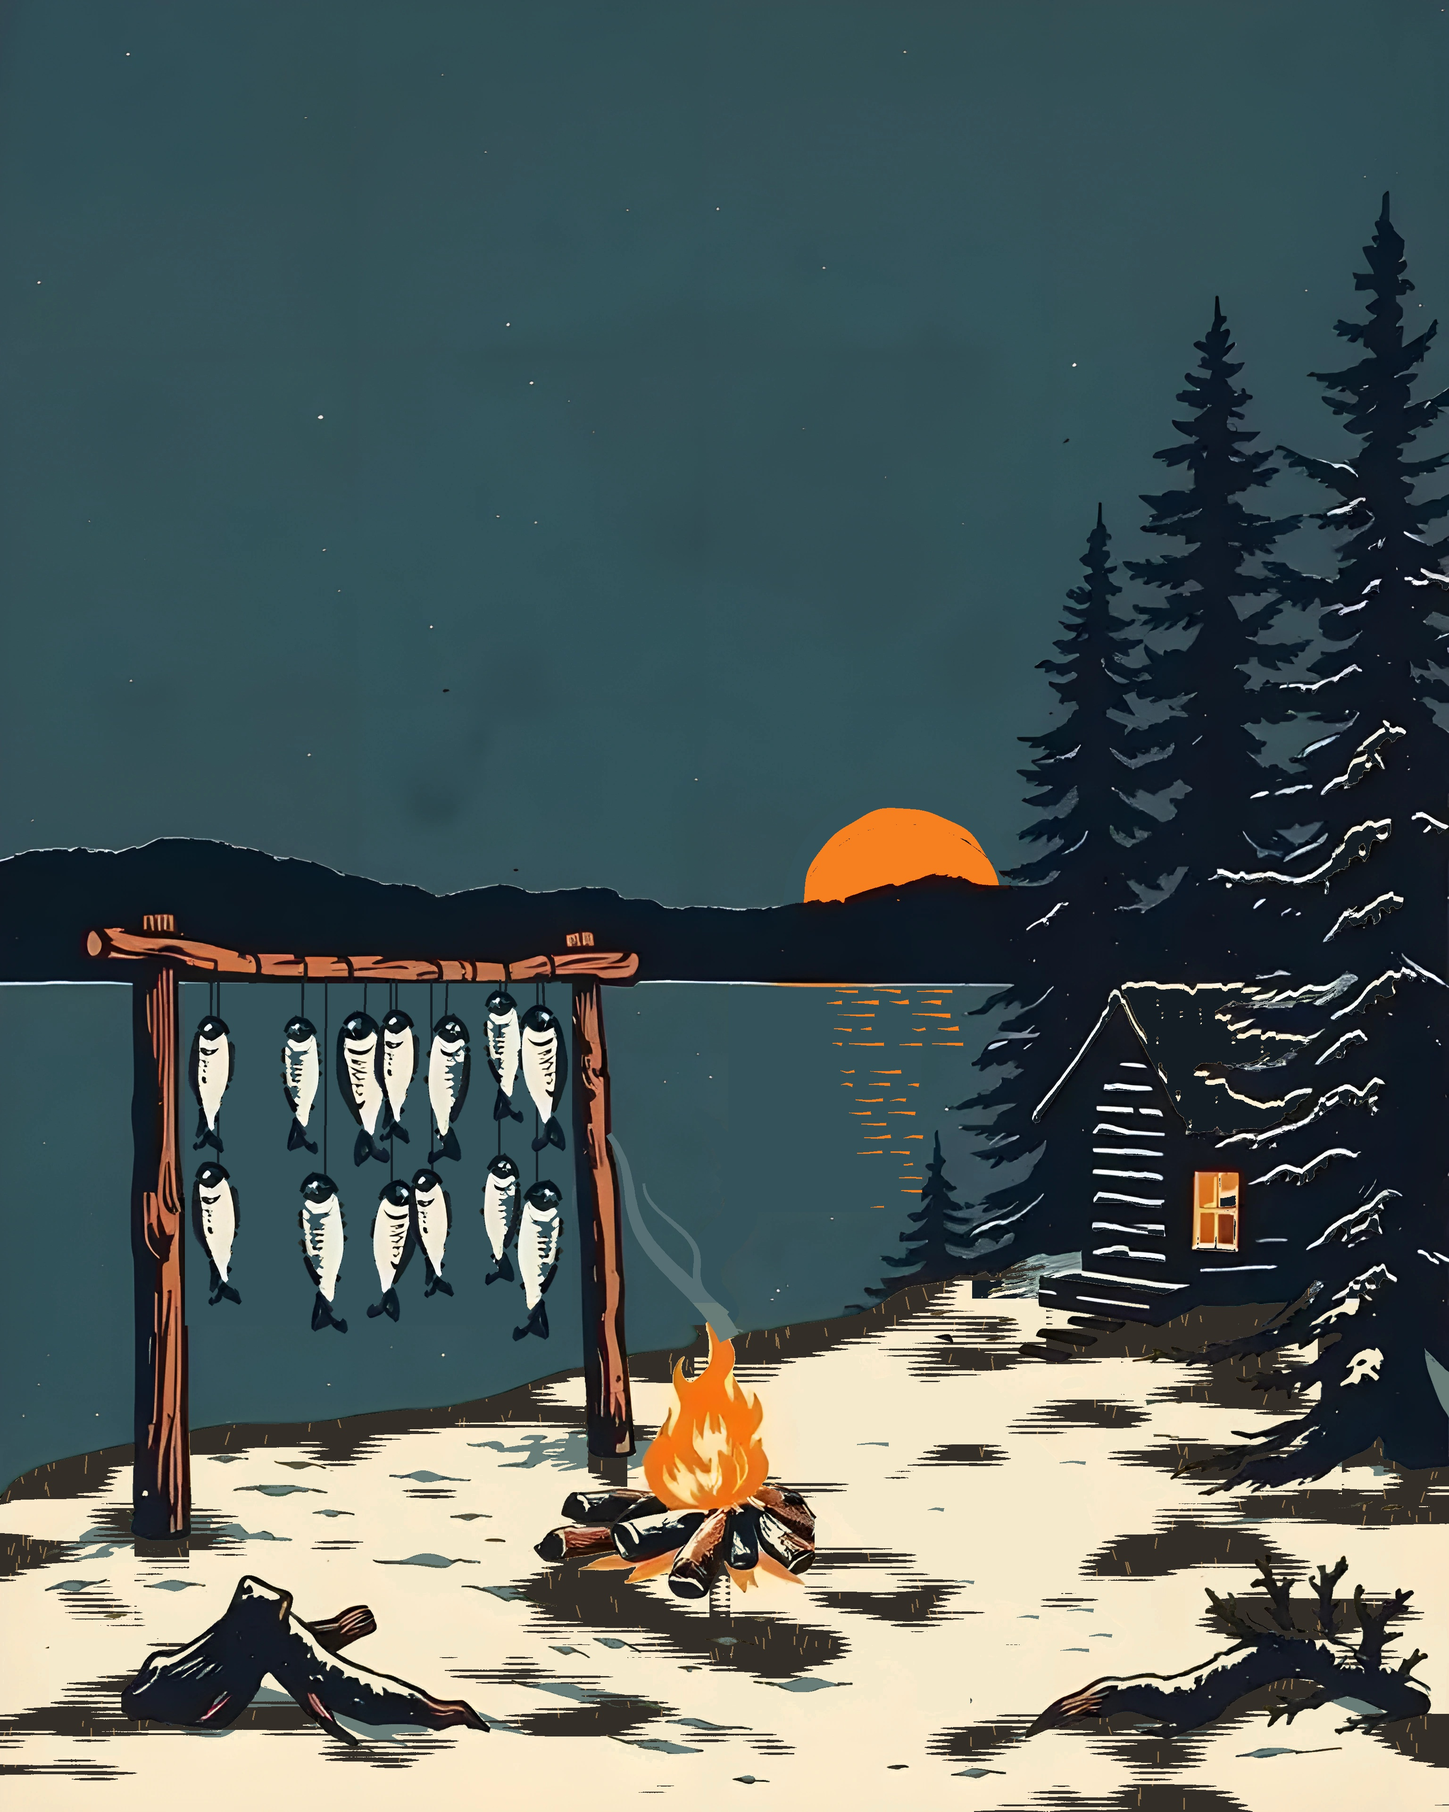
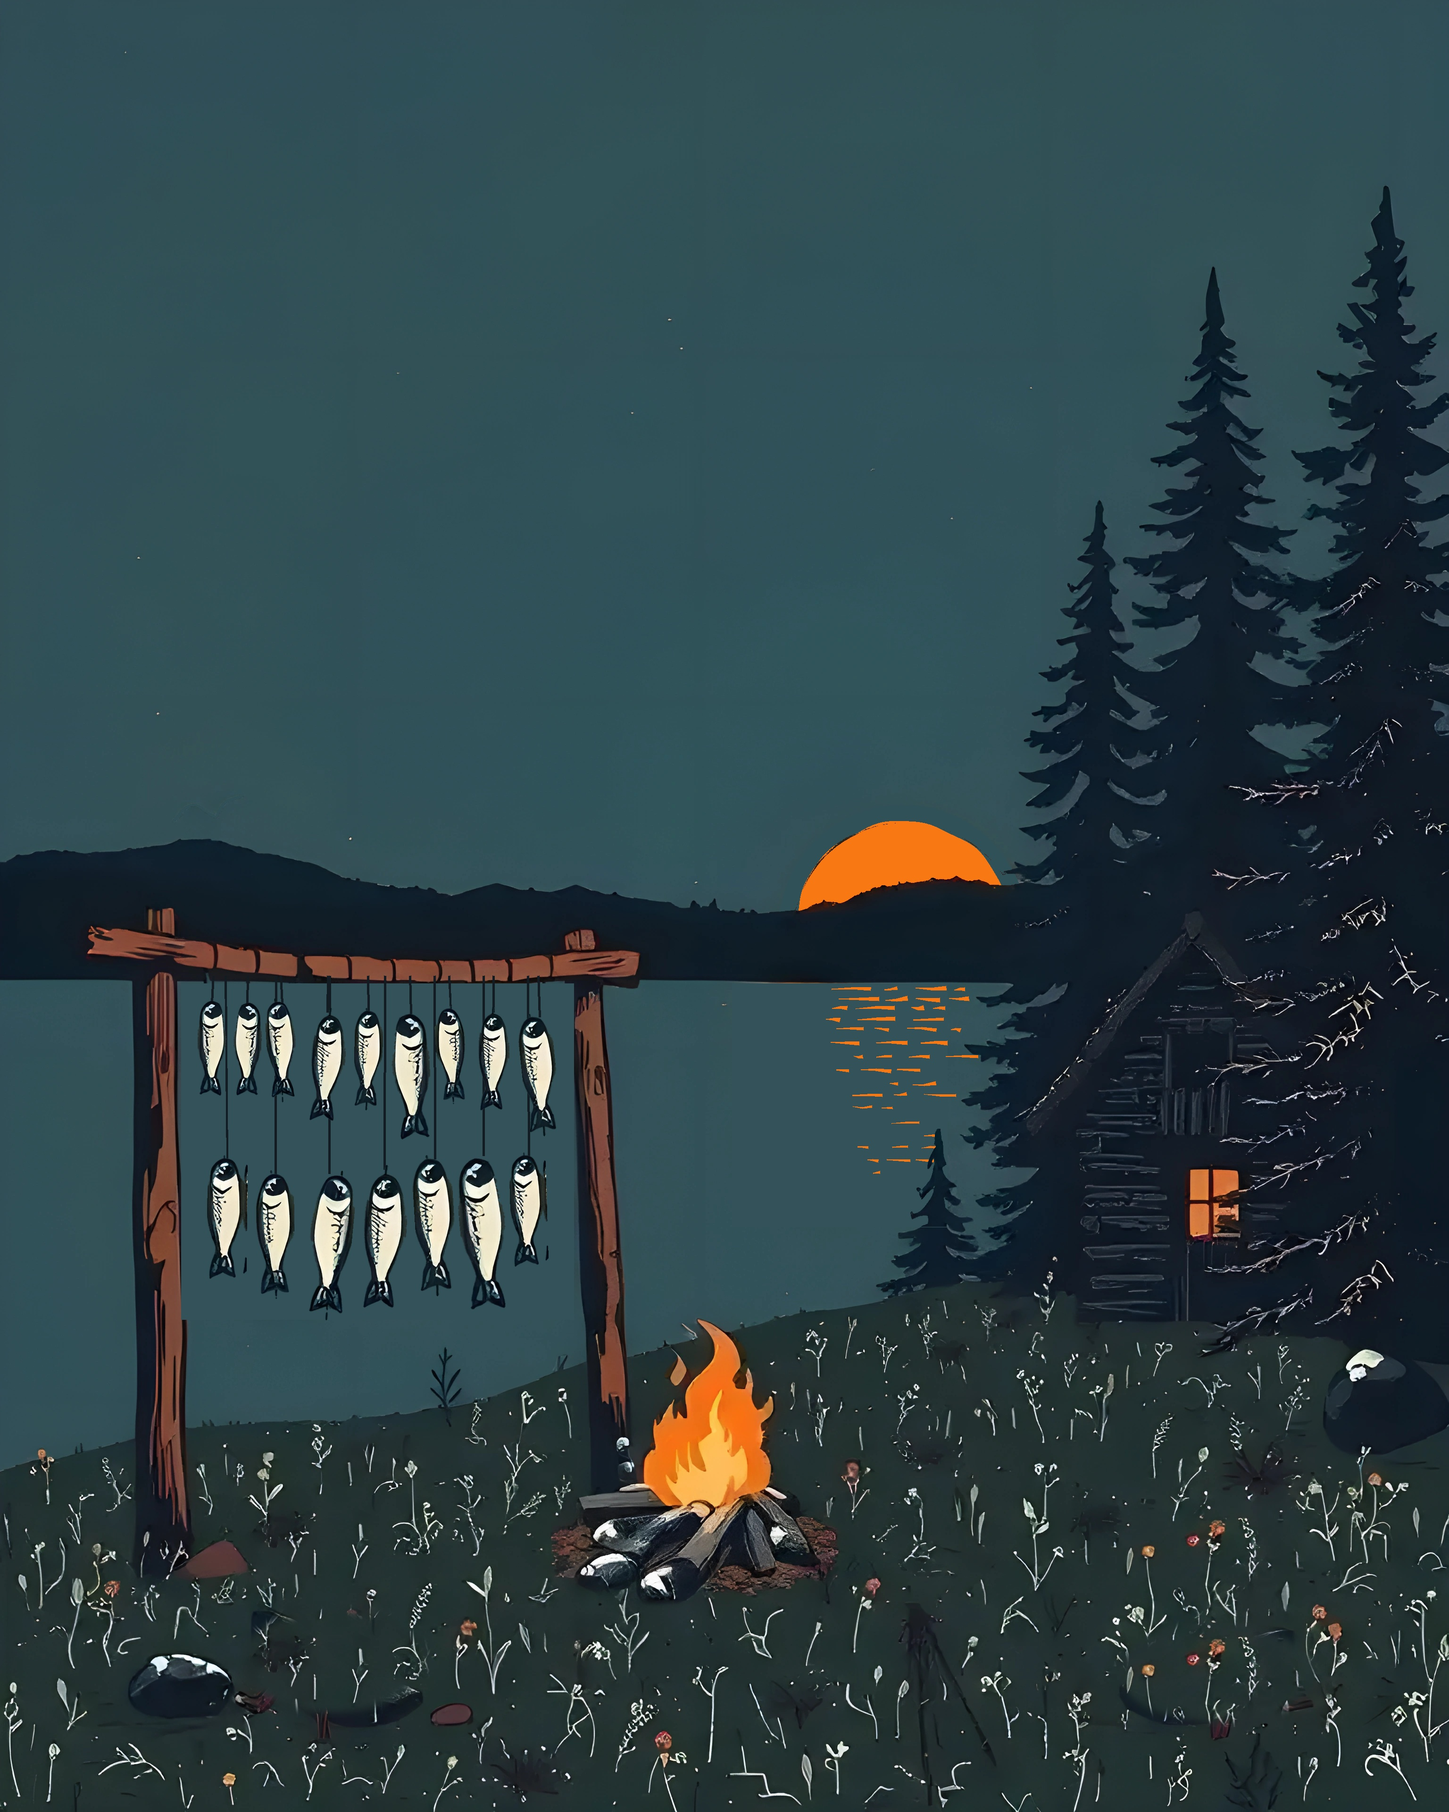
Tomes 4 et 5 en été : la 6 et la 2 choisies par JP, agrandies et retouchées, posées sur les pages de titre
Tome 4 : soleil en aplat, reflet regravé, bêtes couchées et oiseau retirés, poissons de tailles variées.
Tome 5 : la rangée de fausse écriture devient une rangée de pierres.

Claude-Session: https://claude.ai/code/session_014xDY5FLxFXDJt3nYAYznSZ

Changed region(s): [[0.0, 0.125, 1.0, 1.0], [0.5312, 0.4375, 0.6875, 0.5], [0.6875, 0.4688, 0.7188, 0.5]]

diff --git a/images/tomes/essais-ia/tome-4/ete/retouche_ete.py b/images/tomes/essais-ia/tome-4/ete/retouche_ete.py
@@ -1,0 +1,113 @@
+"""Tome 4, version d'été : la n° 6 retouchée (JP, 18 octobre 2026 : « tome 4, la 6, mais règle ombre, soleil, et varie
+grosseur de poisson »). Le soleil devient un aplat orange au bord coupé à la main, sans le liseré sombre ni le dégradé
+du bord ; son reflet, une échelle de barres floues, devient des morceaux de traits effilés, de plus en plus rares en
+descendant ; les seize poissons pareils deviennent une quinzaine de tailles différentes (de 0,7 à 1,3 fois), penchés
+et espacés à la main. Les deux bêtes couchées dans l'herbe, en bas, et l'oiseau du ciel partent.
+    python3 retouche_ete.py SOURCE SORTIE
+Les coordonnées sont celles de l'image 768 × 960 ; elles se multiplient par K (4 sur l'image agrandie)."""
+import sys, random, math
+import numpy as np
+from PIL import Image, ImageDraw
+from scipy import ndimage
+
+src, dst = sys.argv[1], sys.argv[2]
+im = Image.open(src).convert('RGB')
+K = im.width / 768
+R = random.Random(11)
+ORIG = np.asarray(im).astype(int)
+H, W = ORIG.shape[:2]
+yy, xx = np.mgrid[0:H, 0:W] / K
+med = lambda x0, y0, x1, y1: tuple(int(v) for v in np.median(ORIG[int(y0 * K):int(y1 * K), int(x0 * K):int(x1 * K)].reshape(-1, 3), 0))
+CIEL = med(100, 200, 300, 350); LAC = med(330, 560, 380, 640); ORANGE = (248, 120, 20); ENCRE = (18, 28, 34)
+k = lambda v: v * K
+P = lambda pts: [(k(x), k(y)) for x, y in pts]
+
+def trait(d, pts, w0, w1, fill):
+    """Une entaille effilée : largeur w0 au départ, w1 au bout (en px de l'image 768)."""
+    gauche, droite = [], []
+    for i, (x, y) in enumerate(pts):
+        a = pts[min(i + 1, len(pts) - 1)]; b = pts[max(i - 1, 0)]
+        dx, dy = a[0] - b[0], a[1] - b[1]; n = math.hypot(dx, dy) or 1
+        w = (w0 + (w1 - w0) * i / (len(pts) - 1)) / 2
+        gauche.append((x - dy / n * w, y + dx / n * w)); droite.append((x + dy / n * w, y - dx / n * w))
+    d.polygon(P(gauche + droite[::-1]), fill=fill)
+
+arr = ORIG.copy()
+# 1. le soleil : aplat net ; la colline et le rivage passent devant
+cx, cy, r = 478.5, 492, 57
+dist = np.hypot(xx - cx, yy - cy)
+colline = (ORIG.mean(2) < 45) | (yy > 519)
+ang = np.arctan2(yy - cy, xx - cx)
+bord = r + 0.5 * np.sin(ang * 7 + 0.4) + 0.35 * np.sin(ang * 13)
+arr[(dist < r + 9) & ~colline] = CIEL
+arr[(dist <= bord) & ~colline] = ORANGE
+# 2. l'oiseau du ciel part
+arr[(xx > 88) & (xx < 132) & (yy > 412) & (yy < 440) & (np.abs(ORIG - np.array(CIEL)).sum(2) > 30)] = CIEL
+im = Image.fromarray(arr.astype(np.uint8)); d = ImageDraw.Draw(im)
+
+# 3. le reflet : le lac remis à plat sous le soleil, puis des morceaux de traits effilés
+d.rectangle(P([(388, 521), (502, 650)]), fill=LAC)
+y = 524.0
+while y < 648:
+    t = (y - 524) / 124; demi = 40 * (1 - t * 0.7); x = 476 - demi * R.uniform(0.7, 1.1)
+    while x < 476 + demi * R.uniform(0.7, 1.1):
+        L = R.uniform(5, 22) * (1 - t * 0.5); e = R.uniform(1.4, 2.6) * (1 - t * 0.45)
+        if R.random() > t * 0.55:
+            trait(d, [(x, y + R.uniform(-0.6, 0.6)), (x + L / 2, y + R.uniform(-0.5, 0.5)), (x + L, y + R.uniform(-0.6, 0.6))], 0.3, e, ORANGE)
+        x += L + R.uniform(3, 10)
+    y += R.uniform(3.8, 7.5) + t * 3
+# les épinettes et le chalet de droite repassent devant le reflet
+devant = (xx > 470) & (xx < 510) & (yy > 521) & (yy < 650) & (ORIG.mean(2) < 45)
+arr = np.asarray(im).copy(); arr[devant] = ORIG[devant]
+im = Image.fromarray(arr.astype(np.uint8)); d = ImageDraw.Draw(im)
+
+# 4. les deux bêtes couchées dans l'herbe : on recouvre de l'herbe voisine, prise juste au-dessus
+for x0, y0, x1, y1 in ((125, 850, 228, 910), (590, 858, 700, 915)):
+    h = y1 - y0
+    pris = Image.fromarray(ORIG.astype(np.uint8)).crop((int(k(x0)), int(k(y0 - h - 6)), int(k(x1)), int(k(y0 - 6))))
+    masque = Image.new('L', pris.size, 0)
+    ImageDraw.Draw(masque).ellipse([int(k(3)), int(k(3)), pris.width - int(k(3)), pris.height - int(k(3))], fill=255)
+    masque = Image.fromarray(ndimage.gaussian_filter(np.asarray(masque).astype(float), 2 * K).astype(np.uint8))
+    im.paste(pris, (int(k(x0)), int(k(y0))), masque)
+d = ImageDraw.Draw(im)
+
+# 5. les poissons : on relève les gabarits, on vide le séchoir, on les raccroche de tailles différentes
+X0, Y0, X1, Y1 = 96, 521, 304, 699
+# les poissons se touchent : chaque gabarit est découpé dans une colonne, avec sa queue ; le masque garde ce qui n'est
+# pas du lac
+gabarits = []
+for x0, y0, x1, y1 in ((147, 532, 170, 614), (171, 532, 195, 614), (195, 532, 219, 614),
+                       (146, 614, 171, 696), (171, 616, 194, 696), (197, 616, 222, 696)):
+    z = ORIG[int(k(y0)):int(k(y1)), int(k(x0)):int(k(x1))]
+    m = ndimage.binary_opening(np.abs(z - np.array(LAC)).sum(2) > 60, iterations=max(1, int(K / 2)))
+    gabarits.append(Image.fromarray(np.dstack([z, m * 255]).astype(np.uint8), 'RGBA'))
+d.rectangle(P([(X0, Y0), (X1, Y1)]), fill=LAC)
+R.shuffle(gabarits)
+a_poser, gi = [], 0
+for haut, xa, xb, f0, f1, fond_max in ((531, 104, 296, 0.62, 1.35, 614), (612, 106, 294, 0.68, 1.08, 703)):
+    rang, x, essais = [], xa, 0
+    while essais < 40:
+        essais += 1
+        f = R.uniform(f0, f1)
+        p = gabarits[gi % len(gabarits)]; gi += 1
+        w_ = p.width * f / K
+        if x + w_ > xb: break
+        p = p.resize((int(p.width * f), int(p.height * f)), Image.LANCZOS)
+        if R.random() < 0.3: p = p.transpose(Image.FLIP_LEFT_RIGHT)
+        p = p.rotate(R.uniform(-7, 7), resample=Image.BICUBIC, expand=True)
+        yp = haut + R.uniform(-3, 8)
+        if yp + p.height / K > fond_max:
+            continue
+        rang.append([p, x + w_ / 2, yp, w_])
+        x += w_ + R.uniform(1.5, 7)
+    if rang:                                                  # le rang se centre entre les deux poteaux
+        dx = (xa + xb) / 2 - (rang[0][1] - rang[0][3] / 2 + rang[-1][1] + rang[-1][3] / 2) / 2
+        for q in rang:
+            q[1] += dx
+            trait(d, [(q[1] + R.uniform(-1, 1), 517), (q[1], q[2] + 3)], 1.0, 0.9, ENCRE)      # la ficelle
+            a_poser.append((q[0], q[1], q[2]))
+for p, x, y in a_poser:
+    im.paste(p, (int(k(x) - p.width / 2), int(k(y))), p)
+
+im.save(dst, quality=95)
+print('ok', dst, len(a_poser), 'poissons', len(gabarits), 'gabarits')

diff --git a/images/tomes/essais-ia/tome-5/ete/retouche_ete.py b/images/tomes/essais-ia/tome-5/ete/retouche_ete.py
@@ -1,0 +1,51 @@
+"""Tome 5, version d'été : la n° 2 retouchée (JP, 18 octobre 2026 : « la 2, tome 5 »). Une seule chose y faisait IA :
+au pied du bâtiment de gauche, la rangée de pierres était devenue une ligne de fausse écriture. On la remplace par une
+rangée de pierres taillées à la main, de tailles et de formes différentes, sur la terre.
+    python3 retouche_ete.py SOURCE SORTIE
+Les coordonnées sont celles de l'image 768 × 960 ; elles se multiplient par K (4 sur l'image agrandie)."""
+import sys, random, math
+import numpy as np
+from PIL import Image, ImageDraw
+
+src, dst = sys.argv[1], sys.argv[2]
+im = Image.open(src).convert('RGB')
+K = im.width / 768
+R = random.Random(8)
+O = np.asarray(im).astype(int)
+med = lambda x0, y0, x1, y1: tuple(int(v) for v in np.median(O[int(y0 * K):int(y1 * K), int(x0 * K):int(x1 * K)].reshape(-1, 3), 0))
+TERRE = med(60, 742, 120, 750); PIERRE = med(250, 655, 300, 660); OMBRE = (44, 28, 18)
+k = lambda v: v * K
+d = ImageDraw.Draw(im)
+
+# la bande de fausse écriture, du coin du bâtiment jusqu'à la clôture : ses traits clairs prennent la couleur de la terre
+# autour (moyenne locale des pixels sombres), puis les pierres se posent par-dessus, serrées comme un solage
+from scipy import ndimage
+yy, xx = np.mgrid[0:O.shape[0], 0:O.shape[1]] / K
+bande = (xx > 44) & (xx < 374) & (yy > 709) & (yy < 741)
+clair = bande & (O.mean(2) > 85)
+clair = ndimage.binary_dilation(clair, iterations=max(1, int(1.5 * K)))
+fonce = ~clair & (O.mean(2) <= 85)
+arr = O.copy()
+for c in range(3):
+    num = ndimage.gaussian_filter(O[:, :, c] * fonce, 4 * K); den = ndimage.gaussian_filter(fonce.astype(float), 4 * K)
+    arr[:, :, c] = np.where(clair, num / np.maximum(den, 1e-3), O[:, :, c])
+im = Image.fromarray(arr.astype(np.uint8)); d = ImageDraw.Draw(im)
+x = 46.0
+while x < 366:
+    w = R.uniform(12, 22); h = R.uniform(9, 14); cy = 726 + R.uniform(-2, 2)
+    pts = []
+    for t in np.linspace(0, 2 * math.pi, 12)[:-1]:            # une pierre : un ovale aux bords cassés
+        rr = 1 + R.uniform(-0.14, 0.1)
+        pts.append((x + w / 2 + math.cos(t) * w / 2 * rr, cy + math.sin(t) * h / 2 * rr))
+    d.polygon([(k(px) + k(1.2), k(py) + k(1.5)) for px, py in pts], fill=OMBRE)          # le joint sombre dessous
+    v = R.uniform(0.82, 1.04)                                  # chaque pierre a sa teinte
+    d.polygon([(k(px), k(py)) for px, py in pts], fill=tuple(int(c * v) for c in PIERRE))
+    if R.random() < 0.7:                                       # une ou deux entailles de gouge sur la pierre
+        for _ in range(R.choice((1, 2))):
+            y0 = cy + R.uniform(-2.5, 2.5)
+            d.line([(k(x + w * R.uniform(0.2, 0.35)), k(y0)), (k(x + w * R.uniform(0.55, 0.8)), k(y0 - 0.7))],
+                   fill=OMBRE, width=max(1, int(1.0 * K)))
+    x += w + R.uniform(-1.5, 1.5)
+
+im.save(dst, quality=95)
+print('ok', dst)

diff --git a/images/credits.md b/images/credits.md
@@ -1113,6 +1113,6 @@ Linogravures générées par le réseau AI Horde à partir d'une image de dépar
 | `images/tomes/titre-tome-1.jpg` | Juggernaut XL (img2img 0,75) | CreativeML Open RAIL++-M | étoiles contre les lettres retirées |
 | `images/tomes/titre-tome-2.jpg` | Flux.1-Schnell (img2img 0,66, `s3-F-flux-i66-0`) | Apache 2.0 | halo orange du mur effacé ; points au bout des vapeurs retirés ; griffonnages du mortier et du pilon, mouchetures et fausse étiquette de la bouilloire retirés (`retouche_soin.py`) |
 | `images/tomes/titre-tome-3.jpg` | Juggernaut XL (img2img 0,65) | CreativeML Open RAIL++-M | reflet du soleil regravé en tirets ; canot remonté |
-| `images/tomes/titre-tome-4.jpg` | Flux.1-Schnell (img2img 0,55 sur la candidate 1 nettoyée, `t4-r4-flux-lacnet-55-0`) | Apache 2.0 | soleil en aplat sans halo ; reflet regravé en morceaux ; ombres de la neige en aplat ; chaloupe retirée ; fumée en ruban ; poissons variés ; sapins miniatures retirés ; neige allégée (première neige) (`retouche_lac.py`) |
-| `images/tomes/titre-tome-5.jpg` | Juggernaut XL (img2img 0,58, `t3-j58-ete-1`) | CreativeML Open RAIL++-M | halo du soleil effacé et anneaux regravés ; œuf orange sur la souche remplacé par ses cernes ; petite échelle retirée de la forêt (`retouche_jardin.py`) |
+| `images/tomes/titre-tome-4.jpg` | Flux.1-Schnell (img2img 0,62 sur la version d'été de la candidate 2, `t4e-flux62-1`) | Apache 2.0 | soleil en aplat sans liseré ; reflet regravé en morceaux ; deux bêtes couchées dans l'herbe et un oiseau retirés ; poissons de tailles variées (`ete/retouche_ete.py`) |
+| `images/tomes/titre-tome-5.jpg` | Juggernaut XL (img2img 0,50 sur la version d'été de la candidate 4, `t5e-jug50-1`) | CreativeML Open RAIL++-M | rangée de fausse écriture au pied du bâtiment remplacée par des pierres (`ete/retouche_ete.py`) |
 | `images/tomes/titre-tome-6.jpg` | Flux.1-Schnell (img2img 0,88, `t6-fA88-1`) | Apache 2.0 | croissant de lune déplacé hors du titre ; intérieur de l'atelier redessiné (`retouche_atelier.py`) |

diff --git a/livre/apercus-titre-t5/rapport.md b/livre/apercus-titre-t5/rapport.md
@@ -1,7 +1,7 @@
 # Tome 5 · La forêt, le jardin et le chalet — rapport d'assemblage
 
-- **Produit le :** 2026-10-18 20:40, par `design/outils/assembler-tome.py 5 --chapitres 82 --hors-ligne --sortie livre/apercus-titre-t5`
-- **Fichier :** `livre/tome-5/interieur.pdf` — 24 pages, 9.4 Mo
+- **Produit le :** 2026-10-18 21:32, par `design/outils/assembler-tome.py 5 --chapitres 82 --hors-ligne --sortie livre/apercus-titre-t5`
+- **Fichier :** `livre/tome-5/interieur.pdf` — 24 pages, 9.3 Mo
 - **Ouvertures :** au recto ou au verso (--verso)
 - **Placements :** design/epreuves-livre/placements.json, design/epreuves-livre/placements-tome-5.json
 - **Exigences de Blurb :** `sources/blurb-specifications.md` (relevées le 27 septembre 2026)
@@ -28,7 +28,7 @@ Aucune page de crédits (JP, 28 septembre 2026) : copie hors du livre dans `livr
 | Nombre de pages | pair, de 20 à 440 (papier Standard) | 24 | oui |
 | Page 1 | à droite | ouverture du chapitre 00 | oui |
 | Polices incorporées | toutes | 18 police(s), 0 non incorporée(s) | oui |
-| Taille du fichier | 2 Go au plus | 9.4 Mo | oui |
+| Taille du fichier | 2 Go au plus | 9.3 Mo | oui |
 | Marques d'imprimeur | aucune | aucune | oui |
 | Couleur | CMJN ou sRVB, sans ton direct | sRVB (Edge) | oui |
 | Noir du texte | 100 % K | noir sRVB (0, 0, 0) : la conversion est faite chez Blurb | à juger sur épreuve |

diff --git a/livre/apercus-titre-t4/rapport.md b/livre/apercus-titre-t4/rapport.md
@@ -1,7 +1,7 @@
 # Tome 4 · De la bête au garde-manger — rapport d'assemblage
 
-- **Produit le :** 2026-10-18 20:33, par `design/outils/assembler-tome.py 4 --chapitres 61 --hors-ligne --sortie livre/apercus-titre-t4`
-- **Fichier :** `livre/tome-4/interieur.pdf` — 20 pages, 3.3 Mo
+- **Produit le :** 2026-10-18 21:32, par `design/outils/assembler-tome.py 4 --chapitres 61 --hors-ligne --sortie livre/apercus-titre-t4`
+- **Fichier :** `livre/tome-4/interieur.pdf` — 20 pages, 3.1 Mo
 - **Ouvertures :** au recto ou au verso (--verso)
 - **Placements :** design/epreuves-livre/placements.json, design/epreuves-livre/placements-tome-4.json
 - **Exigences de Blurb :** `sources/blurb-specifications.md` (relevées le 27 septembre 2026)
@@ -28,7 +28,7 @@ Aucune page de crédits (JP, 28 septembre 2026) : copie hors du livre dans `livr
 | Nombre de pages | pair, de 20 à 440 (papier Standard) | 20 | oui |
 | Page 1 | à droite | ouverture du chapitre 00 | oui |
 | Polices incorporées | toutes | 19 police(s), 0 non incorporée(s) | oui |
-| Taille du fichier | 2 Go au plus | 3.3 Mo | oui |
+| Taille du fichier | 2 Go au plus | 3.1 Mo | oui |
 | Marques d'imprimeur | aucune | aucune | oui |
 | Couleur | CMJN ou sRVB, sans ton direct | sRVB (Edge) | oui |
 | Noir du texte | 100 % K | noir sRVB (0, 0, 0) : la conversion est faite chez Blurb | à juger sur épreuve |

diff --git a/images/tomes/essais-ia/tome-4/ete/LISEZMOI.md b/images/tomes/essais-ia/tome-4/ete/LISEZMOI.md
@@ -1,5 +1,11 @@
 # Tome 4, version d'été (18 octobre 2026)
 
+**JP choisit la n° 6** (18 octobre 2026 : « tome 4, la 6, mais règle ombre, soleil, et varie grosseur de poisson »).
+Agrandie ×4 (`t4e-flux62-1-x4.png`), puis retouchée par `retouche_ete.py` : le soleil en aplat au bord coupé à la main,
+sans liseré sombre ni dégradé ; le reflet regravé en morceaux de traits ; les deux bêtes couchées dans l'herbe et
+l'oiseau du ciel retirés ; les poissons raccrochés de tailles différentes (de 0,6 à 1,35 fois), penchés et centrés
+entre les poteaux. Résultat : `images/tomes/titre-tome-4.jpg`.
+
 JP, sur la version d'hiver retouchée : « non, au pire fais une image d'été pour celle-là, pas de neige, recommence au
 début ». On repart de la candidate 2 d'origine (`../tome-4-2.png`) : `t4-depart-ete.png` en est l'image de départ,
 la neige du sol changée en terre sombre avec des herbes claires, la neige des épinettes et du toit retirée, la

diff --git a/images/tomes/essais-ia/tome-5/ete/LISEZMOI.md b/images/tomes/essais-ia/tome-5/ete/LISEZMOI.md
@@ -1,5 +1,9 @@
 # Tome 5, version d'été (18 octobre 2026)
 
+**JP choisit la n° 2** (18 octobre 2026). Agrandie ×4 (`t5e-jug50-1-x4.png`), puis retouchée par `retouche_ete.py` :
+au pied du bâtiment de gauche, la rangée de fausse écriture devient une rangée de pierres taillées à la main.
+Résultat : `images/tomes/titre-tome-5.jpg`.
+
 JP, sur la candidate 4 retouchée : « tome 5, faut que ça soit l'été ». Les taches blanches (le sentier, les buttes des
 rangs, le bas) se lisaient comme de la neige. Image de départ `t5-depart-ete.png` : la 4 retouchée (`../retouche_jardin.py`),
 le sentier et les grandes plaques en terre brune avec de l'herbe sur les bords, les buttes en plants. Puis AI Horde en

diff --git a/livre/apercus-titre-t4/credits/tome-4-credits.md b/livre/apercus-titre-t4/credits/tome-4-credits.md
@@ -3,7 +3,7 @@
 **Ne s'imprime pas.** JP, 28 septembre 2026 : « enlève les pages crédit photo, garde les backup quelque part mais pas dans le livre ». Aucune page de crédits dans `livre/tome-4/interieur.pdf`, rien au sommaire.
 
 - **Tiré de :** `images/credits.md` et `images/photos/registre-*.md` (les registres restent la référence)
-- **Par :** `design/outils/assembler-tome.py 4`, le 2026-10-18 20:33, tome de 20 pages
+- **Par :** `design/outils/assembler-tome.py 4`, le 2026-10-18 21:32, tome de 20 pages
 - **Même contenu, lisible à l'écran :** `livre/apercus-titre-t4/credits/tome-4-credits.pdf`
 - **Page :** celle du tome où l'image s'imprime ; elle change à chaque assemblage.
 

diff --git a/livre/apercus-titre-t5/credits/tome-5-credits.md b/livre/apercus-titre-t5/credits/tome-5-credits.md
@@ -3,7 +3,7 @@
 **Ne s'imprime pas.** JP, 28 septembre 2026 : « enlève les pages crédit photo, garde les backup quelque part mais pas dans le livre ». Aucune page de crédits dans `livre/tome-5/interieur.pdf`, rien au sommaire.
 
 - **Tiré de :** `images/credits.md` et `images/photos/registre-*.md` (les registres restent la référence)
-- **Par :** `design/outils/assembler-tome.py 5`, le 2026-10-18 20:40, tome de 24 pages
+- **Par :** `design/outils/assembler-tome.py 5`, le 2026-10-18 21:32, tome de 24 pages
 - **Même contenu, lisible à l'écran :** `livre/apercus-titre-t5/credits/tome-5-credits.pdf`
 - **Page :** celle du tome où l'image s'imprime ; elle change à chaque assemblage.
 
